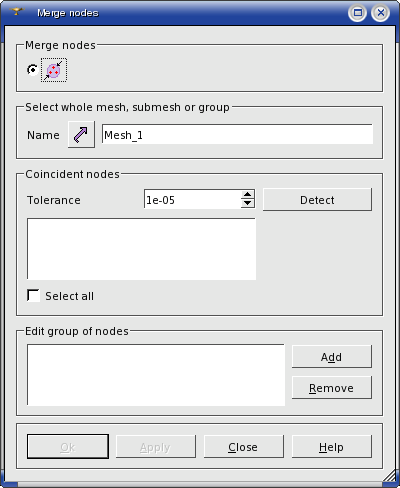
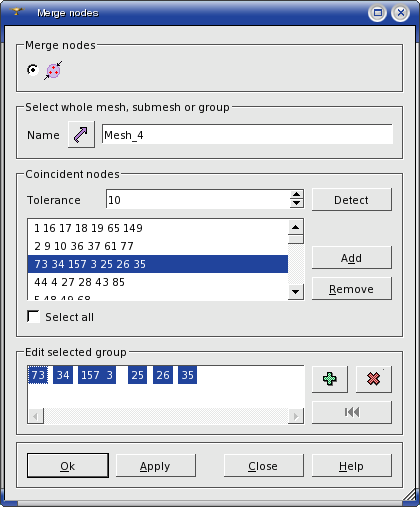
Update for 13330 and 13312 IMP

Changed region(s): [[0.0, 0.0, 1.0, 1.0], [0.81, 0.4918, 0.87, 0.5225], [0.72, 0.5533, 0.75, 0.584]]

diff --git a/doc/salome/gui/SMESH/files/merging_nodes.htm b/doc/salome/gui/SMESH/files/merging_nodes.htm
@@ -16,9 +16,15 @@ if (navigator.appName !="Netscape")
 <!--
 img_whs1 { border:none; width:30px; height:30px; float:none; border-style:none; }
 p.whs2 { margin-left:40px; }
-img_whs3 { border:none; width:400px; height:488px; float:none; }
-img_whs4 { border:none; width:341px; height:375px; float:none; border-style:none; }
-img_whs5 { border:none; float:none; width:347px; height:376px; border-style:none; }
+img_whs3 { border:none; width:420px; height:507px; float:none; border-style:none; }
+ul.whs4 { list-style:disc; }
+p.whs5 { margin-left:72px; }
+p.whs6 { margin-left:40px; font-weight:bold; }
+img_whs7 { border:none; width:37px; height:28px; float:none; border-style:none; }
+img_whs8 { border:none; width:38px; height:30px; float:none; border-style:none; }
+img_whs9 { border:none; width:82px; height:27px; float:none; border-style:none; }
+img_whs10 { border:none; width:341px; height:375px; float:none; border-style:none; }
+img_whs11 { border:none; float:none; width:347px; height:376px; border-style:none; }
 -->
 </style><script type="text/javascript" language="JavaScript" title="WebHelpInlineScript">
 <!--
@@ -98,18 +104,58 @@ if (window.writeIntopicBar)
 
 <p>&nbsp;</p>
 
-<p class="whs2"><img src="../pics/mergenodes.png" x-maintain-ratio="TRUE" width="400px" height="488px" border="0" class="img_whs3"></p>
+<p class="whs2"><img src="../pics/mergenodes.png" x-maintain-ratio="TRUE" width="420px" height="507px" border="0" class="img_whs3"></p>
 
 <p class="whs2">&nbsp;</p>
 
-<p class="whs2">This dialog box allows to create groups of 
- coincident nodes and to merge them. </p>
+<ul type="disc" class="whs4">
+	
+	<li class=kadov-p><p class="whs2"><span style="font-weight: bold;"><B>Name</B></span> 
+ is the name of the mesh whose nodes will be merged.</p></li>
+	
+	<li class=kadov-p><p class="whs2"><span style="font-weight: bold;"><B>Tolerance</B></span> 
+ is a maximum distance between nodes sufficient for merging.</p></li>
+	
+	<li class=kadov-p><p class="whs5"><span style="font-weight: bold;"><B>Detect</B></span> 
+ button generates the list of coincident nodes for the given <span style="font-weight: bold;"><B>Tolerance</B></span>.</p></li>
+	
+	<li class=kadov-p><p class="whs2"><span style="font-weight: bold;"><B>Coincident 
+ nodes</B></span> is a list of groupes of nodes for merging. All nodes of each 
+ group will form one after the operation. </p></li>
+	
+	<li class=kadov-p><p class="whs5"><span style="font-weight: bold;"><B>Remove</B></span> 
+ button deletes the selected group from the list.</p></li>
+	
+	<li class=kadov-p><p class="whs5"><span style="font-weight: bold;"><B>Add</B></span> 
+ button adds to the list a group of nodes selected in the viewer with pressed 
+ &quot;Shift&quot; key.</p></li>
+	
+	<li class=kadov-p><p class="whs5"><span style="font-weight: bold;"><B>Select 
+ all</B></span> checkbox selects all groups.</p></li>
+	
+	<li class=kadov-p><p class="whs6">Edit 
+ selected group<span style="font-weight: normal;"> list</span> <span style="font-weight: normal;">allows 
+ editing the selected group:</span></p></li>
+	
+	<li class=kadov-p><p class="whs5"><img src="../pics/add.gif" x-maintain-ratio="TRUE" width="37px" height="28px" border="0" class="img_whs7"> adds 
+ to the group the node selected in the viewer.</p></li>
+	
+	<li class=kadov-p><p class="whs5"><img src="../pics/remove.gif" x-maintain-ratio="TRUE" width="38px" height="30px" border="0" class="img_whs8"> removes 
+ from the group the selected node.</p></li>
+	
+	<li class=kadov-p><p class="whs5"><img src="../pics/sort.gif" x-maintain-ratio="TRUE" width="82px" height="27px" border="0" class="img_whs9"> moves 
+ the selected node to the first position in the group. This means that 
+ all other nodes will be merged into this one. </p></li>
+</ul>
+
+<p class="whs5">&nbsp;</p>
+
+<p class="whs5">To confirm your choice click <span style="font-weight: bold;"><B>OK</B></span> 
+ or <span style="font-weight: bold;"><B>Apply</B></span> button.</p>
 
 <p class="whs2">&nbsp;</p>
 
-<p class="whs2"><img src="../pics/merging_nodes1.png" x-maintain-ratio="TRUE" width="341px" height="375px" border="0" class="img_whs4"> &nbsp;&nbsp;&nbsp;&nbsp;&nbsp;&nbsp;&nbsp;&nbsp;&nbsp;&nbsp;&nbsp;&nbsp;<img src="../pics/merging_nodes2.png" x-maintain-ratio="TRUE" width="347px" height="376px" border="0" class="img_whs5"></p>
-
-<p class="whs2">&nbsp;</p>
+<p class="whs2"><img src="../pics/merging_nodes1.png" x-maintain-ratio="TRUE" width="341px" height="375px" border="0" class="img_whs10"> &nbsp;&nbsp;&nbsp;&nbsp;&nbsp;&nbsp;&nbsp;&nbsp;&nbsp;&nbsp;&nbsp;&nbsp;<img src="../pics/merging_nodes2.png" x-maintain-ratio="TRUE" width="347px" height="376px" border="0" class="img_whs11"></p>
 
 <p class="whs2">&nbsp;</p>
 

diff --git a/doc/salome/gui/SMESH/files/constructing_meshes.htm b/doc/salome/gui/SMESH/files/constructing_meshes.htm
@@ -19,13 +19,16 @@ ul.whs2 { list-style:disc; }
 p.whs3 { margin-left:40px; }
 img_whs4 { border:none; width:22px; height:24px; border-style:none; }
 p.whs5 { margin-left:80px; }
-img_whs6 { border:none; width:370px; height:296px; float:none; }
+img_whs6 { border:none; width:370px; height:296px; float:none; border-style:none; }
 img_whs7 { border:none; width:173px; height:88px; border-style:none; }
 img_whs8 { border:none; width:34px; height:29px; border-style:none; }
 img_whs9 { border:none; width:29px; height:28px; border-style:none; }
 img_whs10 { border:none; width:30px; height:29px; border-style:none; }
 img_whs11 { border:none; width:232px; height:142px; border-style:none; float:right; }
 img_whs12 { border:none; width:25px; height:24px; border-style:none; }
+img_whs13 { border:none; width:457px; height:486px; float:none; border-style:none; }
+img_whs14 { border:none; width:564px; height:402px; float:none; border-style:none; }
+img_whs15 { border:none; width:260px; height:270px; float:none; border-style:none; }
 -->
 </style><script type="text/javascript" language="JavaScript">
 <!--
@@ -187,7 +190,37 @@ if (window.writeIntopicBar)
  your mesh in the <span style="font-weight: bold;"><B>Object Browser</B></span>. 
  &nbsp;From the 
  <span style="font-weight: bold;"><B>Mesh </B></span>menu select<span style="font-weight: bold;"><B> 
- Compute </B></span>or click <img src="../image28.gif" width="25px" height="24px" border="0" class="img_whs12"> button of the toolbar. </p>
+ Compute </B></span>or click <img src="../image28.gif" width="25px" height="24px" border="0" class="img_whs12"> button of the toolbar. The Mesh 
+ Computation information box appears.</p>
+
+<p class="whs3">&nbsp;</p>
+
+<p class="whs3"><img src="../pics/meshcomputationsucceed.png" x-maintain-ratio="TRUE" width="457px" height="486px" border="0" class="img_whs13"></p>
+
+<p class="whs3">&nbsp;</p>
+
+<p class="whs3">If the mesh computation failed, the information 
+ about the cause of the failure is provided. </p>
+
+<p class="whs3">&nbsp;</p>
+
+<p class="whs3"><img src="../pics/meshcomputationfail.png" x-maintain-ratio="TRUE" width="564px" height="402px" border="0" class="img_whs14"> </p>
+
+<p class="whs3">&nbsp;</p>
+
+<p class="whs3">After you select the error, <span style="font-weight: bold;"><B>Show 
+ Subshape</B></span> button allows visualizing the mesh elements that cause 
+ it</p>
+
+<p class="whs3">&nbsp;</p>
+
+<p class="whs3"><img src="../pics/failed_computation.png" x-maintain-ratio="TRUE" width="260px" height="270px" border="0" class="img_whs15"> </p>
+
+<p class="whs3">&nbsp;</p>
+
+<p class="whs3"><span style="font-weight: bold;"><B>Publish 
+ Subshape</B></span> button allows importing it in a separate MED or UNV file. 
+ </p>
 
 <p class="whs3">&nbsp;</p>
 
